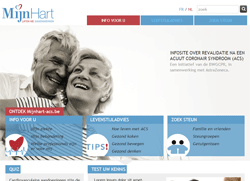
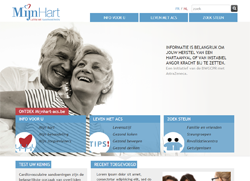
Updating showcase
Updating showcase

diff --git a/index.html b/index.html
@@ -339,8 +339,9 @@
                                             <li><a href="http://www.johnslegers.com/map/" target="_blank"><img src="assets/img/showcase/map.png"></a></li>
                                             <li><a href="http://www.ciooffice.se/ea/ea-navigation/ea-navigation.htm" target="_blank"><img src="assets/img/showcase/ciooffice.png"></a></li>
                                             <li><a href="http://q.hdbjs.com.cn/Hd" target="_blank"><img src="assets/img/showcase/CPPCC.png"></a></li>
-                                            <li><a href="http://www.ydesp.jp/" target="_blank"><img src="assets/img/showcase/ydesp.png"></a></li>
+                                            <li><a href="http://mijnhart.aalandriel.dk/" target="_blank"><img src="assets/img/showcase/mijnhart.png"></a></li>
                                             <li><a href="http://towan.sakura.ne.jp/towan_kanko/index.php" target="_blank"><img src="assets/img/showcase/towan.png"></a></li>
+                                            <li><a href="http://www.ydesp.jp/" target="_blank"><img src="assets/img/showcase/ydesp.png"></a></li>
 											<li><a href="http://grandale.org/" target="_blank"><img src="assets/img/showcase/grandale.png"></a></li>
                                             <li><a href="http://coshg.org/" target="_blank"><img src="assets/img/showcase/coshg.png"></a></li>
                                        <!-- <li><a href="http://erik.responsive.sk/" target="_blank"><img src="assets/img/showcase/paldan.png"></a></li>
